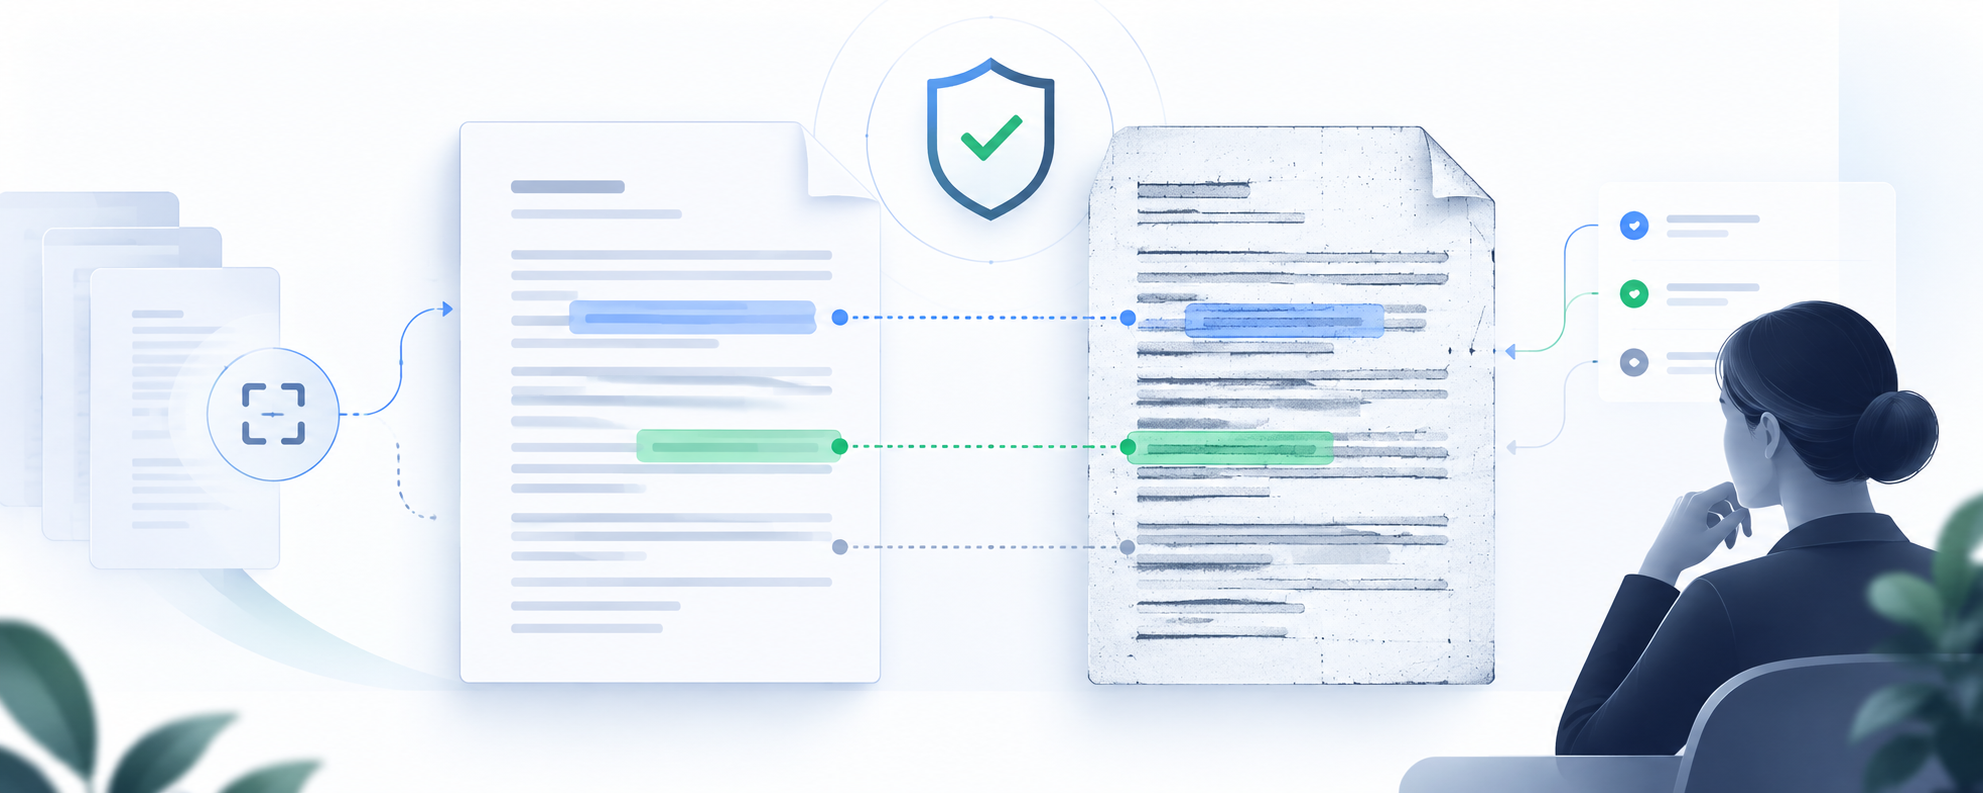
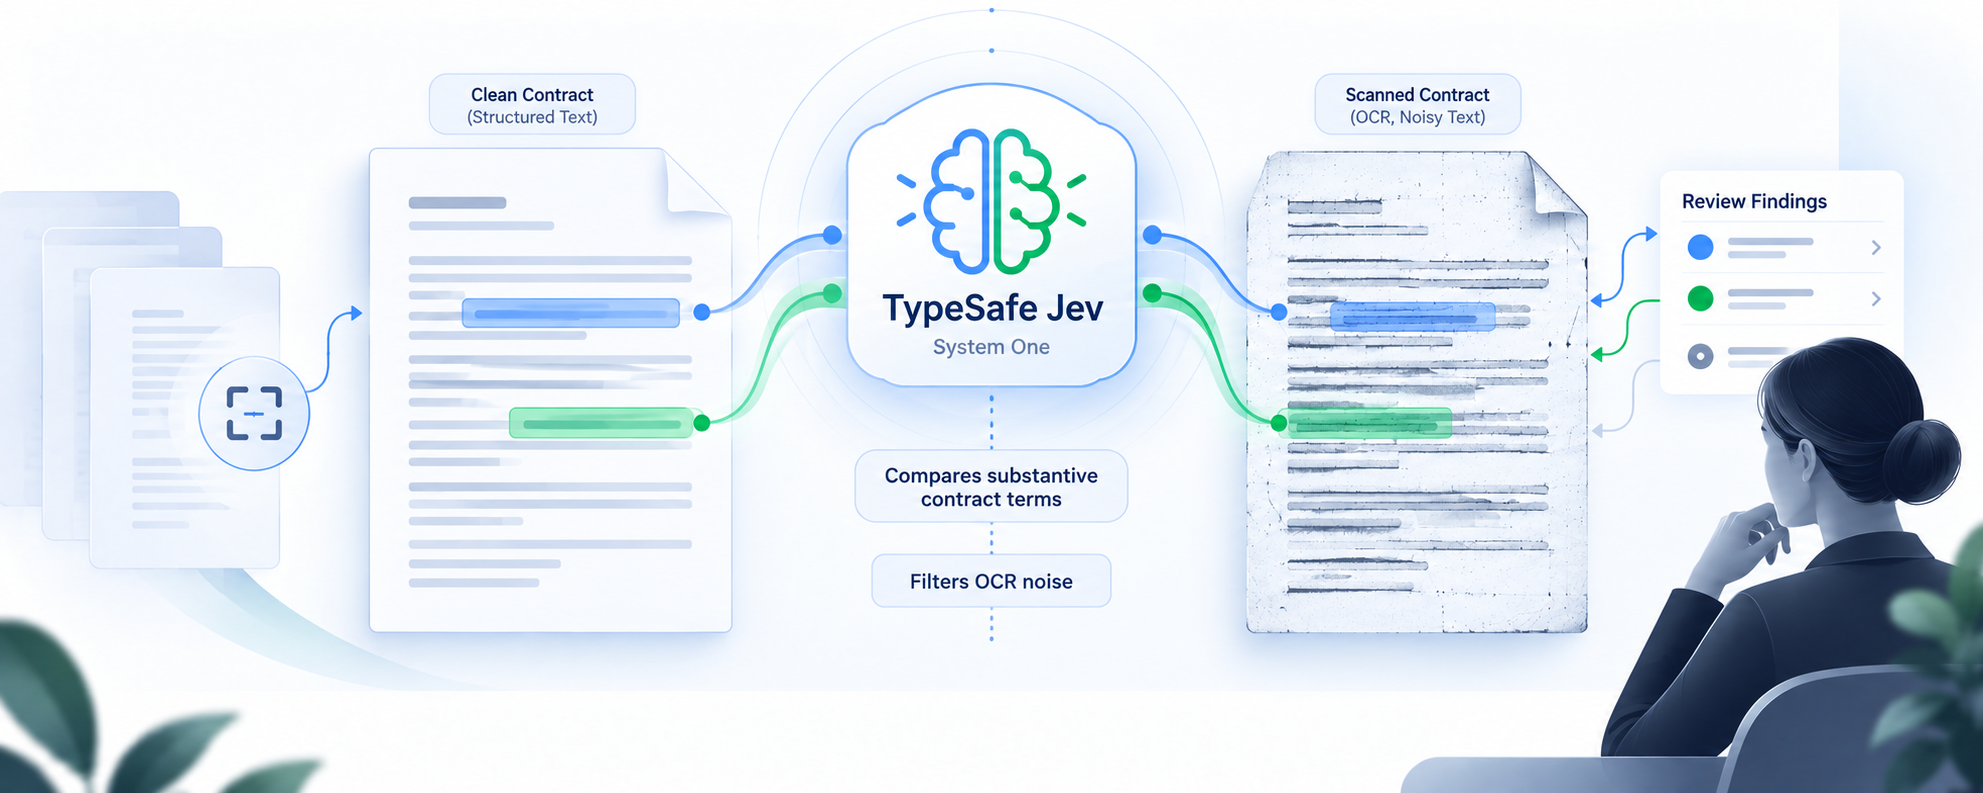
feat: update branding and descriptions across README, HTML, metadata, and translations

Changed region(s): [[0.0923, 0.0605, 1.0, 1.0]]

diff --git a/index.html b/index.html
@@ -3,16 +3,18 @@
   <head>
     <meta charset="UTF-8" />
     <meta name="viewport" content="width=device-width, initial-scale=1.0" />
-    <title>AI 文本智能比对评测工具 (Jev Spec)</title>
-    <meta name="description" content="基于 TypeSafe Jev 规范的 AI 智能比对工具，支持双文本输入、结构化 Jev 问题与指令评测、差异内容高亮与比对报告导出。" />
-    <meta property="og:title" content="AI 文本智能比对评测工具 (Jev Spec)" />
-    <meta property="og:description" content="基于 TypeSafe Jev 规范的 AI 智能比对工具，支持双文本输入、结构化 Jev 问题与指令评测、差异内容高亮与比对报告导出。" />
+    <title>Jev Audit | AI Contract Comparison and OCR Review</title>
+    <meta name="description" content="Compare contracts with TypeSafe Jev. Identify substantive changes, separate OCR noise from meaningful differences, and review AI-powered audit results." />
+    <meta name="robots" content="index, follow" />
+    <meta property="og:title" content="Jev Audit | AI Contract Comparison and OCR Review" />
+    <meta property="og:description" content="Compare contracts with TypeSafe Jev. Identify substantive changes, separate OCR noise from meaningful differences, and review AI-powered audit results." />
     <meta property="og:type" content="website" />
-    <meta name="twitter:card" content="summary_large_image" />
+    <meta name="twitter:card" content="summary" />
+    <meta name="twitter:title" content="Jev Audit | AI Contract Comparison and OCR Review" />
+    <meta name="twitter:description" content="Compare contracts with TypeSafe Jev. Identify substantive changes, separate OCR noise from meaningful differences, and review AI-powered audit results." />
   </head>
   <body>
     <div id="root"></div>
     <script type="module" src="/src/main.tsx"></script>
   </body>
 </html>
-

diff --git a/src/i18n/translations.ts b/src/i18n/translations.ts
@@ -198,7 +198,7 @@ export const translations: Record<Language, Translations> = {
       all: '全部',
     },
     header: {
-      appTitle: 'AI 合同比对与防篡改审查工具',
+      appTitle: 'Jev Audit',
       appSubtitle: 'Jev 评估合同实质一致性 · 得分超过 90% 自动通过',
       jevConnected: 'TypeSafe Jev (已连接)',
       jevEngine: 'Jev 评测引擎',
@@ -376,7 +376,7 @@ export const translations: Record<Language, Translations> = {
       all: 'All',
     },
     header: {
-      appTitle: 'AI Contract Comparison & Anti-Tampering Audit',
+      appTitle: 'Jev Audit',
       appSubtitle: 'Jev contract consistency · Auto-pass above 90%',
       jevConnected: 'TypeSafe Jev (Connected)',
       jevEngine: 'Jev Audit Engine',

diff --git a/README.md b/README.md
@@ -6,7 +6,7 @@
 
 An AI-powered contract comparison tool built around **Jev atomic evaluations**. Compare a baseline contract with text extracted from a scanned copy, separate substantive changes from OCR noise, and turn the findings into a reviewable report.
 
-<img src="assets/jev-audit-hero.png" alt="Jev Audit comparing a baseline contract with a scanned copy and highlighting differences for review" width="100%" />
+<img src="assets/jev-audit-hero.png" alt="TypeSafe Jev compares a clean contract with a scanned copy, filters OCR noise, and presents findings for review" width="100%" />
 
 `Jev` · `Contract Audit` · `OCR Noise Detection` · `OpenAI` · `AI SDK`
 
